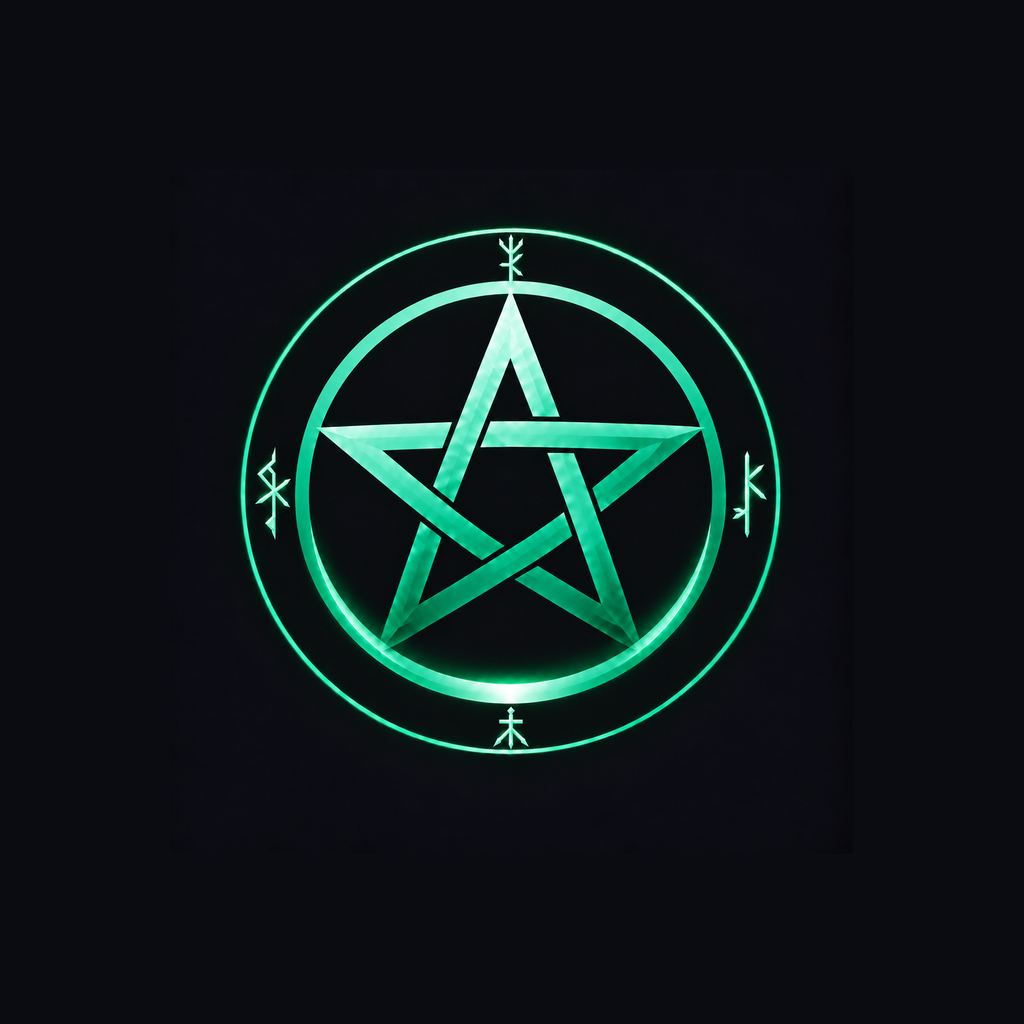
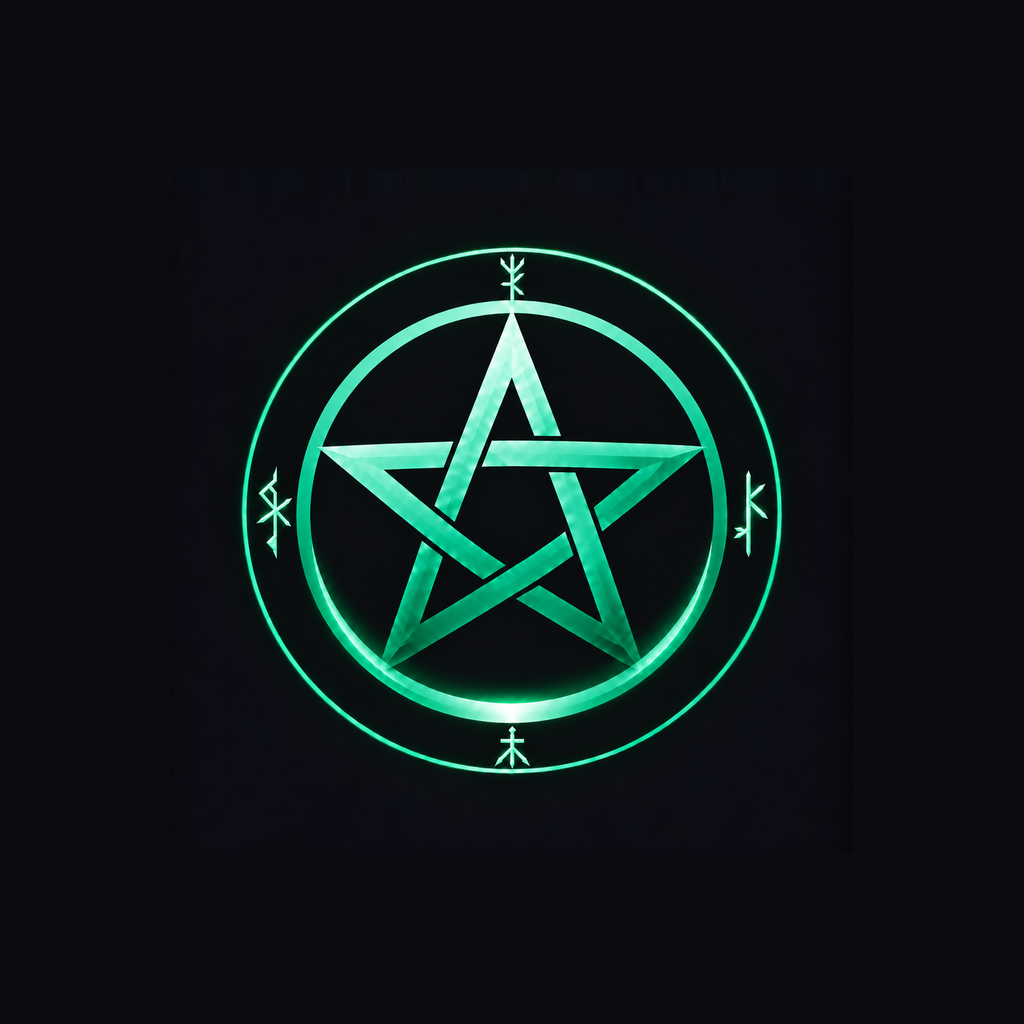
Restore compact assistant header and center launcher artwork

Changed region(s): [[0.2188, 0.2188, 0.7812, 0.7812]]

diff --git a/src/components/assistant/BartHeader.tsx b/src/components/assistant/BartHeader.tsx
@@ -36,18 +36,16 @@ export default function BartHeader({ identity, others, pending, lanes, blocked =
       </ArcaneRingFrame>
       </Pressable>
       <View style={styles.nameBlock}>
-        <View style={styles.titleRow}>
-          <Pressable onPress={onStatus} accessibilityRole="button" accessibilityLabel={`${identity.name} status`} style={{ flexShrink: 1 }}>
-            <Text style={styles.name} numberOfLines={1}>{identity.name}</Text>
-          </Pressable>
-          <HeaderVoiceMic />
-        </View>
+        <Pressable onPress={onStatus} accessibilityRole="button" accessibilityLabel={`${identity.name} status`} style={{ flexShrink: 1 }}>
+          <Text style={styles.name} numberOfLines={1}>{identity.name}</Text>
+        </Pressable>
         <Pressable onPress={onStatus} accessibilityRole="button" accessibilityLabel={`${lanes} open lanes${blocked > 0 ? `, ${blocked} blocked` : ''}`} style={styles.meta}>
           <StatusTag status={working ? 'working' : 'idle'} />
           <Text style={styles.lanes}>{lanes} LANES</Text>
           {blocked > 0 ? <Text testID="assistant-lanes-blocked" style={styles.blocked}>{blocked} BLOCKED</Text> : null}
         </Pressable>
       </View>
+      <HeaderVoiceMic />
     </View>
     <HeaderButton kind="questions" count={pending} onPress={onQuestions} />
   </View>;
@@ -63,8 +61,7 @@ const styles = StyleSheet.create({
     backgroundColor: Tokens.palette.amber, color: Tokens.palette.ink, fontFamily: Fonts.jetBrainsMono.bold, fontSize: 10 },
   identity: { flex: 1, minWidth: 0, flexDirection: 'row', alignItems: 'center', gap: 9 },
   identityMark: { flexShrink: 0 },
-  titleRow: { flexDirection: 'row', alignItems: 'center', gap: 8 },
-  nameBlock: { flex: 1, minWidth: 0 },
+  nameBlock: { flexShrink: 1, minWidth: 0 },
   name: { color: Tokens.palette.text, fontFamily: Fonts.rajdhani.bold, fontSize: 17, lineHeight: 19 },
   meta: { flexDirection: 'row', alignItems: 'center', gap: 9, marginTop: 3 },
   lanes: { color: Tokens.palette.muted, fontFamily: Fonts.jetBrainsMono.regular, fontSize: 9.5, letterSpacing: 0.5 },

diff --git a/docs/branding.md b/docs/branding.md
@@ -2,10 +2,13 @@
 
 The supplied 1024×1024 logo is retained at `assets/images/pentacle_icon_source.png`. Its SHA256 is
[1 lines of base64/hex data omitted]
-Derive required sizes with Lanczos filtering; preserve the artwork and colors.
+The launcher derivative translates the artwork 2 pixels right and 29 pixels down
+on the same 1024-pixel canvas to center its circle, extending the original black
+edge into the exposed margin. The original master stays unchanged. Derive required
+sizes from the centered image with Lanczos filtering; preserve artwork and colors.
 
 Expo uses the logo for the 1024-pixel app and splash icons and 256-pixel
-favicon. Android adaptive foreground insets the original square to two thirds
+favicon. Android adaptive foreground insets the centered square to two thirds
 on its original corner color; `app.config.ts` wires that asset explicitly.
 Native icon slots are generated by Expo prebuild from these sources. The existing
 notification small-icon consumer retains its platform tint behavior.
